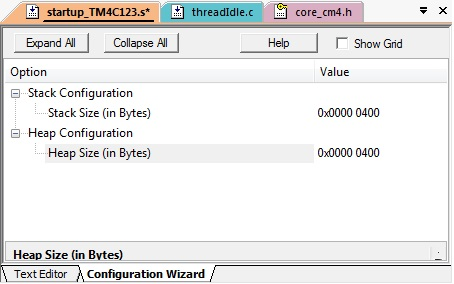
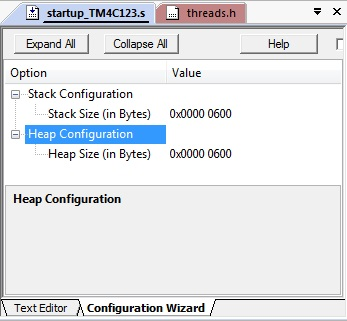
Keil Configuration Wizard Options
... and Various Cleanup/Tweaks

diff --git a/RTE/RTOS/Source/semaphores.c b/RTE/RTOS/Source/semaphores.c
@@ -35,8 +35,6 @@ osStatus os_InsertThreadInSemaphoreBlockedQ (osThreadId thread_id, osSemaphoreId
 uint32_t os_SearchThreadInSemaphoreOwnerQ (osThreadId thread_id, osSemaphoreId semaphore_id);
 uint32_t os_SearchThreadInSemaphoreBlockedQ (osThreadId thread_id, osSemaphoreId semaphore_id);
 osStatus os_SearchThreadAllSemaphoresBlockedQ (osThreadId thread_id, osSemaphoreId* semaphore_id_p, uint32_t* semaphore_p_p );
-osStatus os_SearchThreadSemaphoresExcept (osThreadId thread_id,osSemaphoreId semaphore_id, osSemaphoreId* semaphore_id_p, uint32_t* semaphore_p_p );
-
 
 /// Create and Initialize a Semaphore object used for managing resources.
 /// \param[in]     semaphore_def semaphore definition referenced with \ref osSemaphore.
@@ -113,7 +111,7 @@ int32_t osSemaphoreWait (osSemaphoreId semaphore_id, uint32_t millisec)
 	if ( (rc = os_InsertThreadInSemaphoreOwnerQ(curr_th,semaphore_id)) == osOK)
 	{
 		// semaphore is free -> take semaphore
-		return 0;
+		return (semaphore_id->ownCount - semaphore_id->threads_own_q_cnt);
 	}	
 	
 	// check for osErrorResource to block thread
@@ -184,7 +182,7 @@ int32_t osSemaphoreWait (osSemaphoreId semaphore_id, uint32_t millisec)
 	if (os_InsertThreadInSemaphoreOwnerQ(curr_th,semaphore_id) == osOK)
 	{
 		// semaphore is free -> take semaphore
-		return 0;
+		return (semaphore_id->ownCount - semaphore_id->threads_own_q_cnt);
 	}	
 	
 	return (-1);
@@ -409,7 +407,7 @@ osStatus os_RemoveThreadFromSemaphoreBlockedQ (osThreadId thread_id, osSemaphore
 		return osOK;
 	}
 	
-	// if the thread is blocke don this queue, then it must be pointing to it; need to clear
+	// if the thread is blocked on this queue, then it must be pointing to it; need to clear
 	semaphore_id->threads_q[idx].threadId->semaphore_id = NULL;
 	semaphore_id->threads_q[idx].threadId->semaphore_p = MAX_THREADS_SEM;
 	// remove the thread from the semaphore's queue
@@ -514,6 +512,13 @@ osStatus os_InsertThreadInSemaphoreOwnerQ (osThreadId thread_id, osSemaphoreId s
 	{
 		return osErrorResource;			
 	}		
+	
+	// check if thread already in semaphore queue
+	if (os_SearchThreadInSemaphoreOwnerQ(thread_id, semaphore_id) != MAX_THREADS_SEM)
+	{
+		// already own this semaphore
+		return osOK;
+	}
 	
 	semaphore_id->threads_own_q[semaphore_id->threads_own_q_cnt] = thread_id;
 	semaphore_id->threads_own_q_cnt++;
@@ -669,60 +674,4 @@ osStatus os_SearchThreadAllSemaphoresBlockedQ (osThreadId thread_id, osSemaphore
 	
 	return osOK;
 }
-
-/// Search for the thread in all blocked semaphore queue.
-/// \param     thread_id  thread object.
-/// \param     semaphore_id semaphore object to exclude in search
-/// \param     semaphore_id_p  pointer to semaphore object for returning
-/// \param     semaphore_p_p  pointer to pointer to semaphore object for returning
-/// \return index withing one of the semaphores the thread is blocked; 
-///   - MAX_THREADS_SEM if not found or error
-osStatus os_SearchThreadSemaphoresExcept (osThreadId thread_id,osSemaphoreId semaphore_id, osSemaphoreId* semaphore_id_p, uint32_t* semaphore_p_p )
-{
-	uint32_t i, j;
-
-	if ( thread_id == NULL)
-	{
-		return osErrorParameter;
-	}	
-
-	if ( semaphore_id == NULL)
-	{
-		return osErrorParameter;
-	}	
-	
-	if ( semaphore_id_p == NULL)
-	{
-		return osErrorParameter;
-	}	
-
-	if ( semaphore_p_p == NULL)
-	{
-		return osErrorParameter;
-	}
-	
-	*semaphore_p_p = MAX_THREADS_SEM;
-	*semaphore_id_p = NULL;
-	
-  // search for the thread in all semaphore queues
-	for ( i = 0; i < sem_counter ; i++ )
-	{	
-		if (semaphores[i] != semaphore_id && semaphores[i]->threads_q_cnt != 0 )
-		{	
-			for ( j = 0; j < semaphores[i]->threads_q_cnt ; j++ )
-			{		
-				if (semaphores[i]->threads_q[j].threadId == thread_id && 
-					  semaphores[i]->threads_q[j].threadId->status == TH_BLOCKED)
-				{
-					*semaphore_p_p = j;
-					*semaphore_id_p = semaphores[i];
-					break;
-				}
-			}	
-		}
-	}
-	
-	return osOK;
-}
-
 

diff --git a/RTE/RTOS/Source/scheduler.c b/RTE/RTOS/Source/scheduler.c
@@ -13,7 +13,6 @@
 extern uint32_t  curr_task;     ///< Current task
 extern uint32_t  next_task;     ///< Next task
 
-uint32_t os_ThreadGetNextThread(void);
 uint32_t os_ThreadGetBestThread(void);
 void os_ReevaluateBlockedThread(void);
 osStatus os_ReevaluateThread(osThreadId thread_id);
@@ -24,6 +23,11 @@ osStatus os_ReevaluateThread(osThreadId thread_id);
 void scheduler(void)
 {
 	uint32_t next;
+	
+	if (th_q_cnt == 0)
+	{
+		stop_cpu;
+	}	
 	
 	// re-evaluate blocked threads
 	os_ReevaluateBlockedThread();
@@ -46,43 +50,10 @@ void scheduler(void)
 		//need a context switch - let the kernel handle this	
 	}	
 	
-	if (th_q_cnt == 0)
-	{
-		next = 0;
-		while(1)
-		{		
-				// Should not be here
-		};
-	}
-	
 	next_task = next;
 	return;	
 }
 
-/// \brief Get thread with next highest priority.
-/// \return Thread ID of the next thread to run
-uint32_t os_ThreadGetNextThread(void)
-{
-	uint32_t i, temp = th_q_h;
-	osPriority priority = osPriorityIdle;
-	
-	// search for any thread that is ready to go except head
-	for ( i = 0; i < th_q_cnt ; i++ )
-	{
-		// This is not the currently running process
-		// The candidate process is in ready state
-		if ( i != th_q_h && th_q[i]->status  )
-		{
-			if ( th_q[i]->priority > priority )
-			{
-				priority = th_q[i]->priority;
-				temp = i;
-			}
-		}
-	}
-	// if something is found, it will be returned, otherwise, curent head is going back
-	return temp;
-}
 
 /// \brief Get ready/running thread with highest priority.
 /// \return Thread ID of the best thread to run

diff --git a/RTE/RTOS/Include/threads.h b/RTE/RTOS/Include/threads.h
@@ -8,8 +8,39 @@
 
 #include <stdint.h>
 
-#define MAX_THREADS 10         ///< Maximum number of threads supported
-#define DEFAULT_STACK_SIZE 128 ///< Default Stack Size for a given Thread
+//-------- <<< Use Configuration Wizard in Context Menu >>> ------------------
+//--------------------- Threads Configuration ----------------------------------
+//
+//      <o> Number of Threads used at Any Given Time in the OS
+//              <1=> 0: (Idle Thread)
+//              <2=> 1
+//              <3=> 2
+//              <4=> 3
+//              <5=> 4
+//              <6=> 5
+//              <7=> 6
+//              <8=> 7
+//              <9=> 8
+//              <10=> 9
+//              <11=> 10
+//          <i> Specifies the maximum number of threads supported
+//
+#define MAX_THREADS 7         ///< Maximum number of threads supported
+//
+//      <o> Default Stack Size for a Given Thread (Bytes)
+//              <100=> 100 Bytes
+//              <200=> 200 Bytes
+//              <300=> 300 Bytes
+//              <400=> 400 Bytes
+//              <500=> 500 Bytes
+//              <600=> 600 Bytes
+//              <700=> 700 Bytes
+//              <800=> 800 Bytes
+//              <900=> 900 Bytes
+//              <1000=> 1000 Bytes
+//          <i> Specifies the Default Stack Size for a given Thread
+//
+#define DEFAULT_STACK_SIZE 200 ///< Default Stack Size for a given Thread
 
 typedef enum os_thread_status ///< Thread Status : Running, Blocked or Asleep.
 {

diff --git a/RTE/RTOS/Source/kernel.c b/RTE/RTOS/Source/kernel.c
@@ -10,7 +10,6 @@
 #include "scheduler.h"
 #include "trace.h"
 
-
 /*! \def HW32_REG(ADDRESS) 
          Macros for word accesses. */
 #define HW32_REG(ADDRESS)  (*((volatile unsigned long  *)(ADDRESS)))
@@ -41,7 +40,8 @@ uint32_t kernel_busy = 0;            ///< flag whether the kernel is busy or not
 //  ==== Kernel Control Functions ====
 
 /// \brief Initialize the RTOS Kernel for creating objects.
-/// \return status code that indicates the execution status of the function.
+/// \details Enable double-word stack alignment and initialize the Idle thread.
+/// \return Status code that indicates the execution status of the function.
 /// \note MUST REMAIN UNCHANGED: \b osKernelInitialize shall be consistent in every CMSIS-RTOS.
 osStatus osKernelInitialize (void)
 {
@@ -232,7 +232,7 @@ __asm void PendSV_Handler(void)
   VSTMDBEQ R0!, {S16-S31} // Save floating point registers
   MOV      R2, LR
   MRS      R3, CONTROL
-  STMDB    R0!,{R2-R11}// Save LR,CONTROL and R4 to R11 in task stack (10 regs)
+  STMDB    R0!,{R2-R11}// Save LR,CONTROL and R4 to R11 on task stack (10 regs)
   LDR      R1,=__cpp(&curr_task)
   LDR      R2,[R1]     // Get current task ID
   LDR      R3,=__cpp(&PSP_array)

diff --git a/RTE/RTOS/Include/semaphores.h b/RTE/RTOS/Include/semaphores.h
@@ -8,6 +8,22 @@
 
 #include <stdint.h> 
 
-#define MAX_THREADS_SEM 10 ///< The maximum number of threads that can be blocked on a semaphore.
+//-------- <<< Use Configuration Wizard in Context Menu >>> ------------------
+//--------------------- Semaphore Configuration ----------------------------------
+//
+//      <o> Number of Threads per Semaphore
+//              <1=> 1
+//              <2=> 2
+//              <3=> 3
+//              <4=> 4
+//              <5=> 5
+//              <6=> 6
+//              <7=> 7
+//              <8=> 8
+//              <9=> 9
+//              <10=> 10
+//          <i> Specifies the maximum number of threads that can be blocked on or own a semaphore.
+//
+#define MAX_THREADS_SEM 10 ///< The maximum number of threads that can be blocked or own on a semaphore.
 
 #endif

diff --git a/RTE/RTOS/Source/thread3.c b/RTE/RTOS/Source/thread3.c
@@ -69,10 +69,11 @@ void thread3 (void const *argument)
 		{
 			stop_cpu;
 		}
-		while (getTraceCounter() <= 4) // throttle mechanism in place to stop this thread from running if no other thread (but Idle) present
+		while (getTraceCounter() <= 4) // throttle mechanism in place to stop this thread from running if no other application thread present
 		{
 			osThreadYield();             // suspend thread
 		}
+		
 		if (addTraceProtected("thread3 back") != TRACE_OK)
 		{
 			stop_cpu;
